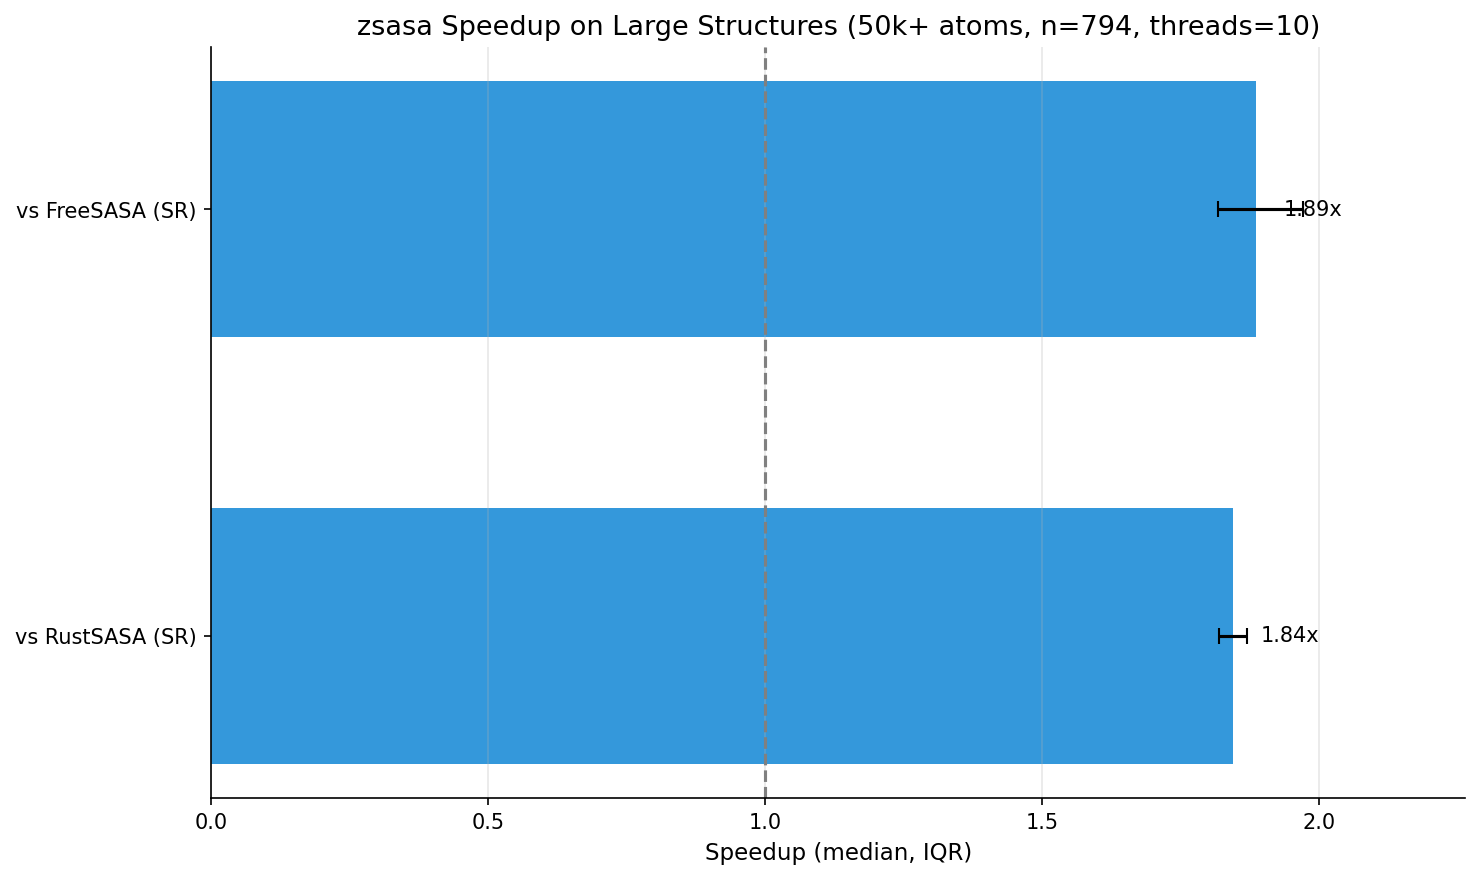
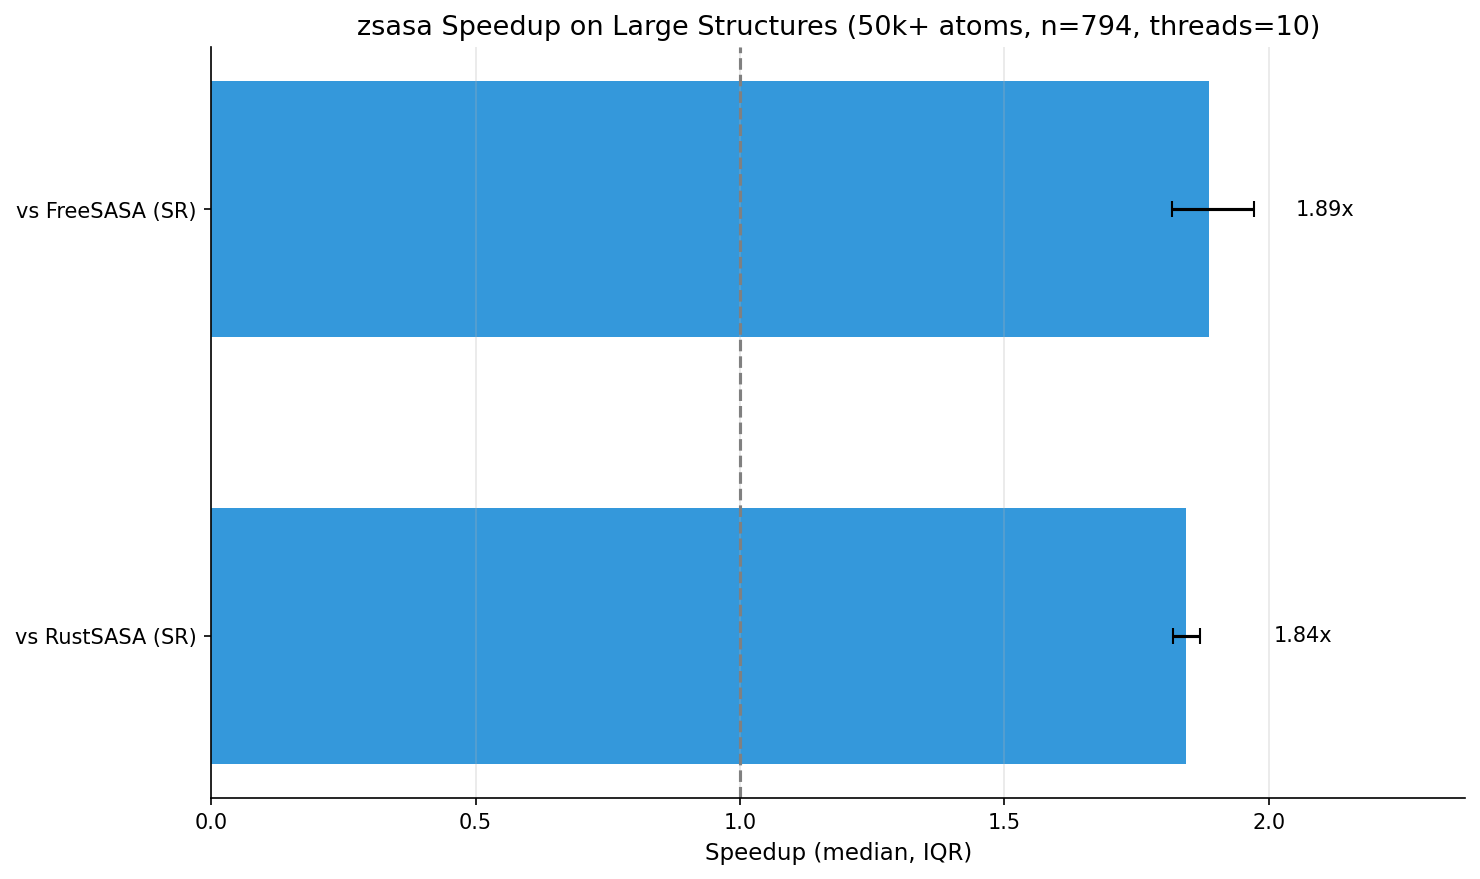
fix: improve plot layout for speedup_bar labels and scatter grid
- Position speedup_bar text labels after IQR error bar whiskers to
  prevent overlap
- Change scatter grid from 3-column to 2-column layout for better
  readability with 4 thread counts (2x2)

diff --git a/benchmarks/scripts/analyze_plots.py b/benchmarks/scripts/analyze_plots.py
@@ -170,12 +170,12 @@ def plot_scatter(n_points: int = 100, time_col: str = "time_ms"):
         plt.close(fig)
         rprint(f"[green]Saved:[/green] {out_path}")
 
-    # Grid of all threads
+    # Grid of all threads (2x2 layout for 4 thread counts)
     n_threads = len(thread_counts)
-    n_cols = min(3, n_threads)
+    n_cols = min(2, n_threads)
     n_rows = (n_threads + n_cols - 1) // n_cols
 
-    fig, axes = plt.subplots(n_rows, n_cols, figsize=(6 * n_cols, 5 * n_rows))
+    fig, axes = plt.subplots(n_rows, n_cols, figsize=(7 * n_cols, 6 * n_rows))
     if n_threads == 1:
         axes = [[axes]]
     elif n_rows == 1:
@@ -589,14 +589,15 @@ def plot_large(n_points: int = 100, time_col: str = "time_ms"):
     ax.set_xlabel("Speedup (median, IQR)")
     ax.axvline(x=1.0, color="gray", linestyle="--", linewidth=1.5)
 
+    max_err = max(r["q75"] - r["speedup"] for r in results)
     for i, s in enumerate(speedups):
-        ax.text(s + 0.05, i, f"{s:.2f}x", va="center", fontsize=10)
+        ax.text(s + max_err + 0.08, i, f"{s:.2f}x", va="center", fontsize=10)
 
     n_structs = df_large.select("structure").unique().height
     ax.set_title(
         f"zsasa Speedup on Large Structures (50k+ atoms, n={n_structs}, threads={max_threads})"
     )
-    ax.set_xlim(0, max(speedups) * 1.2)
+    ax.set_xlim(0, max(s + max_err for s in speedups) + 0.4)
     ax.grid(True, alpha=0.3, axis="x")
 
     fig.tight_layout()
